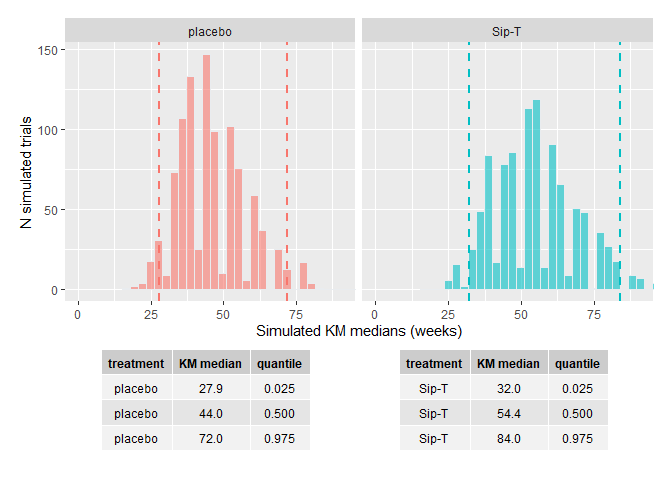
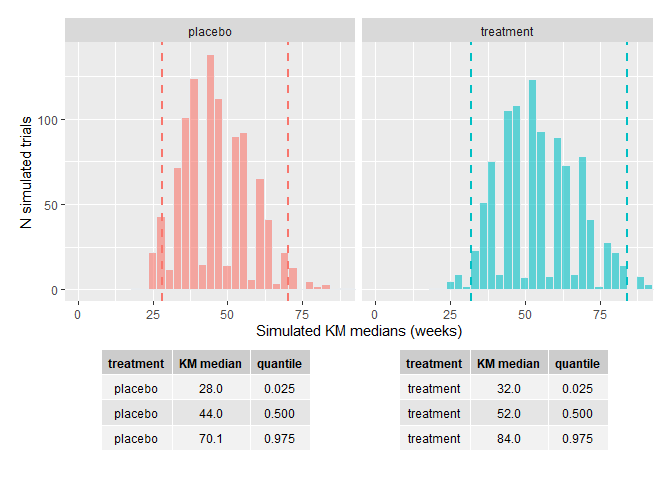
minor updates

diff --git a/README.md b/README.md
@@ -8,9 +8,9 @@
 [![R-CMD-check](https://github.com/reevesj53/survTrial/workflows/R-CMD-check/badge.svg)](https://github.com/reevesj53/survTrial/actions)
 <!-- badges: end -->
 
-The goal of survTrial is to document simulation methods used within
-Bayer Medical Statistics Oncology. The current version of the package
-runs simulation scenarios for PFS, allowing for either:
+The goal of survTrial is to document common simulation methods used
+within biostatistics. The current version of the package runs simulation
+scenarios for PFS, allowing for either:
 
 -   event times (progression and death) simulated from exponential
     distribution.
@@ -44,8 +44,8 @@ period of 5 months, 10 subjects per month thereafter leading to a total
 of 60 subjects with 1:1 randomization.
 
 The visit schedule for tumor assessments is every 4 weeks (in
-`schedule`). Median PFS for the two treatment groups (Sip-T and Placebo)
-are 12 and 10 months respectively.
+`schedule`). Median PFS for the two treatment groups (Treatment and
+Placebo) are 12 and 10 months respectively.
 
 Data cut-off will occur at the 40th event.
 
@@ -63,7 +63,7 @@ rate is 10%. We accept the default method of moving progression events
 forward to the next scheduled visit. Then run the simulation:
 
 ``` r
-sim <- trial_sim(schedule, enrol, rxrate, nevent, adjust=TRUE, trt=c("Sip-T","placebo"),death.prop=0.1,
+sim <- trial_sim(schedule, enrol, rxrate, nevent, adjust=TRUE, trt=c("treatment","placebo"),death.prop=0.1,
 censor.prop=0.1,n.rep=1000)
 #> Joining, by = "rep"
 ```
@@ -77,30 +77,30 @@ sim.km <- calc_km(sim)
 sim.km
 #> $sim.km
 #> # A tibble: 2,000 x 3
-#>      rep rx      median
-#>    <int> <chr>    <dbl>
-#>  1     1 placebo   51.4
-#>  2     1 Sip-T     76  
-#>  3     2 placebo   32  
-#>  4     2 Sip-T     24  
-#>  5     3 placebo   28  
-#>  6     3 Sip-T     60  
-#>  7     4 placebo   60  
-#>  8     4 Sip-T     52  
-#>  9     5 placebo   48  
-#> 10     5 Sip-T     72  
+#>      rep rx        median
+#>    <int> <chr>      <dbl>
+#>  1     1 placebo     44  
+#>  2     1 treatment   36  
+#>  3     2 placebo     52  
+#>  4     2 treatment   43.4
+#>  5     3 placebo     48  
+#>  6     3 treatment   NA  
+#>  7     4 placebo     52  
+#>  8     4 treatment   56  
+#>  9     5 placebo     33.3
+#> 10     5 treatment   48  
 #> # ... with 1,990 more rows
 #> 
 #> $median.quantile
 #> # A tibble: 6 x 4
-#>   rx      description KM_median quantile
-#>   <chr>   <chr>           <dbl>    <dbl>
-#> 1 placebo sim_low          27.9   0.0250
-#> 2 placebo sim_median       44     0.5   
-#> 3 placebo sim_high         72     0.975 
-#> 4 Sip-T   sim_low          32     0.0250
-#> 5 Sip-T   sim_median       54.4   0.5   
-#> 6 Sip-T   sim_high         84     0.975 
+#>   rx        description KM_median quantile
+#>   <chr>     <chr>           <dbl>    <dbl>
+#> 1 placebo   sim_low          28     0.0250
+#> 2 placebo   sim_median       44     0.5   
+#> 3 placebo   sim_high         70.1   0.975 
+#> 4 treatment sim_low          32     0.0250
+#> 5 treatment sim_median       52     0.5   
+#> 6 treatment sim_high         84     0.975 
 #> 
 #> attr(,"class")
 #> [1] "trialsim.km"
